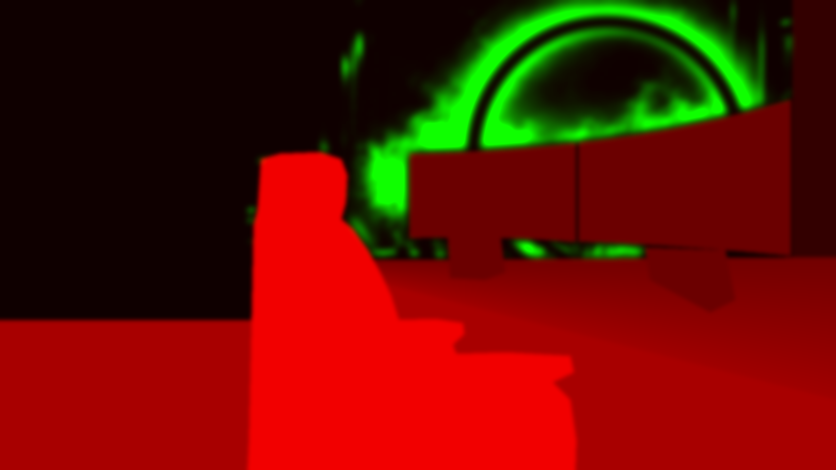
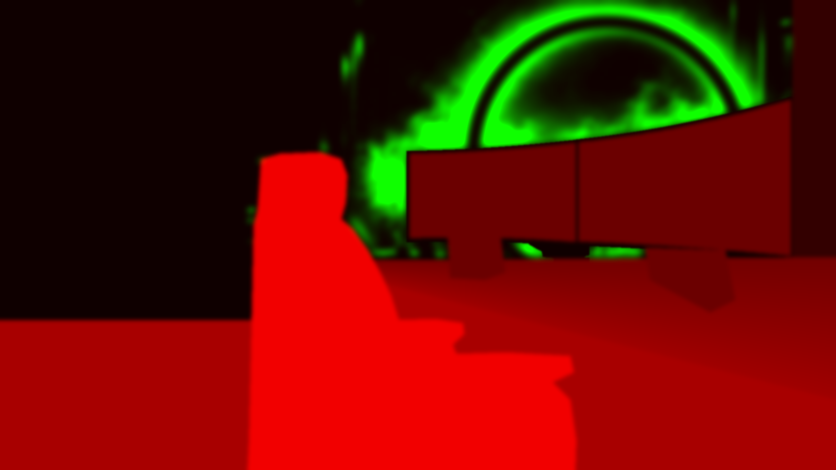
Первый экран: пар не трогает мониторы — у стыка кольца с левым монитором больше не дрожит кромка; блик снова виден и бежит по кольцу (Сергей: «у стыка монитора и кольца косяк… сверху и снизу на левом мониторе», «разве кольцо не должно переливаться бликом… бегать вокруг?»)
1) Маска пара (зелёный канал hero-depth.webp) заходила на корпус левого монитора у верхней кромки (до 0,27
   в 4 px от края, на корпусах и ножках местами до 0,81) — шейдер подменял кромку клубами, и на стыке с яркой
   линией кольца край дрожал; у правого монитора пара у кромки почти не было, поэтому там незаметно. Маска
   обнулена на всём, что стоит перед кольцом (экраны, кромка корпусов, ножки), с запасом 3 px и мягким краем
   (scratchpad/steam_and_bloom.py). Карта мерцания: яркая полоса вдоль кромки левого монитора ушла.
2) Блик бежал только по тонкой линии кольца, а она на кадре почти белая — его не было видно. Добавлен второй
   проход блика по ореолу (hero-ring-bloom.webp: размытый свет кольца без мониторов и ножек), скорость
   120 → 150 px кадра/с. На снимках каждые 0,5 с светлое пятно идёт по верхней дуге.
Проверено на сборке: ошибок нет, прокрутки вбок нет; плавность ×4 p95 13,7/14,3/12,8 мс во вступлении.

diff --git a/src/components/landing/HeroDeskScene.tsx b/src/components/landing/HeroDeskScene.tsx
@@ -2,6 +2,7 @@ import { useEffect, useRef } from 'react';
 import deskImg from '@/assets/hero-desk-ring.jpg';
 import ringLightUrl from '@/assets/hero-ring-light.webp';
 import ringOffUrl from '@/assets/hero-ring-off.webp';
+import ringBloomUrl from '@/assets/hero-ring-bloom.webp';
 import depthUrl from '@/assets/hero-depth.webp';
 import { LiveScreen, makeScreen, type LiveEvent, type ScreenDef } from './heroDeskLive';
 import { createDepthPhoto, FOCUS, PIVOT } from './heroDepth';
@@ -183,6 +184,19 @@ export default function HeroDeskScene({ variant, className }: Props) {
     };
     ringOff.onload = onImg;
     ringLight.src = ringLightUrl; ringOff.src = ringOffUrl;
+    // ореол блика (24.10.2026, Сергей: «разве кольцо не должно переливаться бликом… бегать вокруг?»): блик шёл
+    // только по тонкой линии кольца, а она на кадре почти белая — его не было видно. Ореол — размытый свет кольца
+    // без мониторов и ножек (scratchpad/steam_and_bloom.py), с теми же полями, что и свет
+    const ringBloom = new Image();
+    const bloomPad = document.createElement('canvas');
+    let bloomReady = false;
+    ringBloom.onload = () => {
+      bloomPad.width = RING_BOX.w + COMET_WIN;
+      bloomPad.height = RING_BOX.h + COMET_WIN;
+      bloomPad.getContext('2d')?.drawImage(ringBloom, COMET_WIN / 2, COMET_WIN / 2, RING_BOX.w, RING_BOX.h);
+      bloomReady = true;
+    };
+    ringBloom.src = ringBloomUrl;
 
     // карточка терминала: одна за раз, не чаще раза в 6 с
     let screensOn = 0;
@@ -331,22 +345,27 @@ export default function HeroDeskScene({ variant, className }: Props) {
       const wx = Math.round(RING.x + RING.r * Math.cos(mid) - COMET_WIN / 2);
       const wy = Math.round(RING.y + RING.r * Math.sin(mid) - COMET_WIN / 2);
       const k = cometCv.width / COMET_WIN;
-      c2.globalCompositeOperation = 'source-over';
-      c2.clearRect(0, 0, cometCv.width, cometCv.height);
-      for (const [lag, a, rad] of COMET) {
-        const t = ang - lag;
-        const px = (RING.x + RING.r * Math.cos(t) - wx) * k;
-        const py = (RING.y + RING.r * Math.sin(t) - wy) * k;
-        c2.globalAlpha = a;
-        c2.drawImage(spotSpr, px - rad * k, py - rad * k, rad * 2 * k, rad * 2 * k);
-      }
-      c2.globalAlpha = 1;
-      c2.globalCompositeOperation = 'source-in';
-      // свет кольца — в масштабе кадра 1:1, начало картинки в RING_BOX плюс поля
       const pad = COMET_WIN / 2;
-      c2.drawImage(lightPad, wx - RING_BOX.x + pad, wy - RING_BOX.y + pad, COMET_WIN, COMET_WIN, 0, 0, cometCv.width, cometCv.height);
-      rc.globalAlpha = alpha;
-      rc.drawImage(cometCv, wx, wy, COMET_WIN, COMET_WIN);
+      // проход блика: пятна вдоль кольца, вырезанные по картинке (свет кольца или его ореол)
+      const pass = (src: HTMLCanvasElement, a: number, grow: number) => {
+        c2.globalCompositeOperation = 'source-over';
+        c2.clearRect(0, 0, cometCv.width, cometCv.height);
+        for (const [lag, sa, rad] of COMET) {
+          const t = ang - lag;
+          const px = (RING.x + RING.r * Math.cos(t) - wx) * k;
+          const py = (RING.y + RING.r * Math.sin(t) - wy) * k;
+          c2.globalAlpha = sa;
+          c2.drawImage(spotSpr, px - rad * grow * k, py - rad * grow * k, rad * 2 * grow * k, rad * 2 * grow * k);
+        }
+        c2.globalAlpha = 1;
+        c2.globalCompositeOperation = 'source-in';
+        // картинка — в масштабе кадра 1:1, начало в RING_BOX плюс поля
+        c2.drawImage(src, wx - RING_BOX.x + pad, wy - RING_BOX.y + pad, COMET_WIN, COMET_WIN, 0, 0, cometCv.width, cometCv.height);
+        rc.globalAlpha = a;
+        rc.drawImage(cometCv, wx, wy, COMET_WIN, COMET_WIN);
+      };
+      if (bloomReady) pass(bloomPad, 0.8 * alpha, 1.25);
+      pass(lightPad, alpha, 1);
       rc.globalAlpha = 1;
     };
 
@@ -410,7 +429,7 @@ export default function HeroDeskScene({ variant, className }: Props) {
         rc.globalAlpha = 1;
         drawComet(ang, 1);
       } else {
-        drawComet(sweepAngle(1) + ((now / 1000) * 120) / RING.r, 0.95);
+        drawComet(sweepAngle(1) + ((now / 1000) * 150) / RING.r, 0.95);
       }
     };
 
